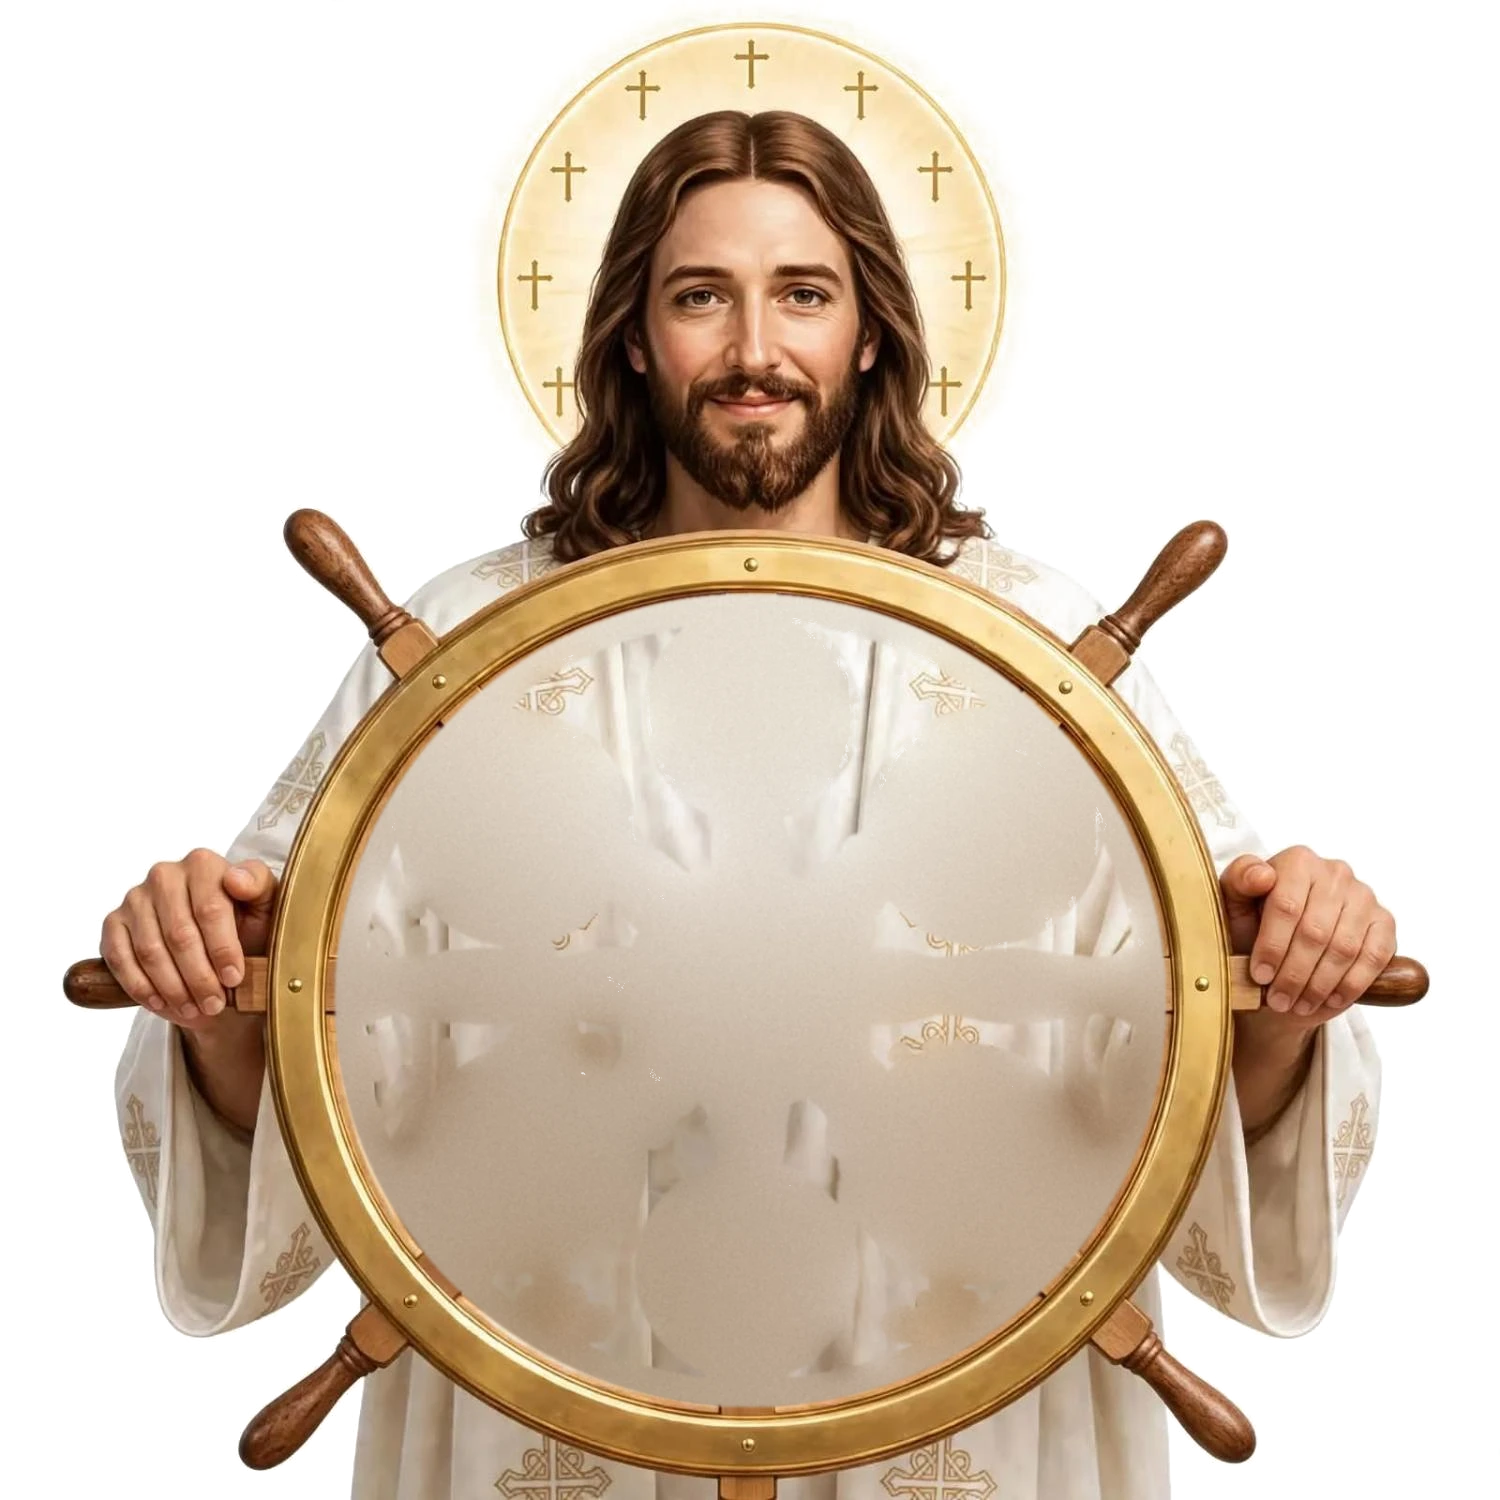
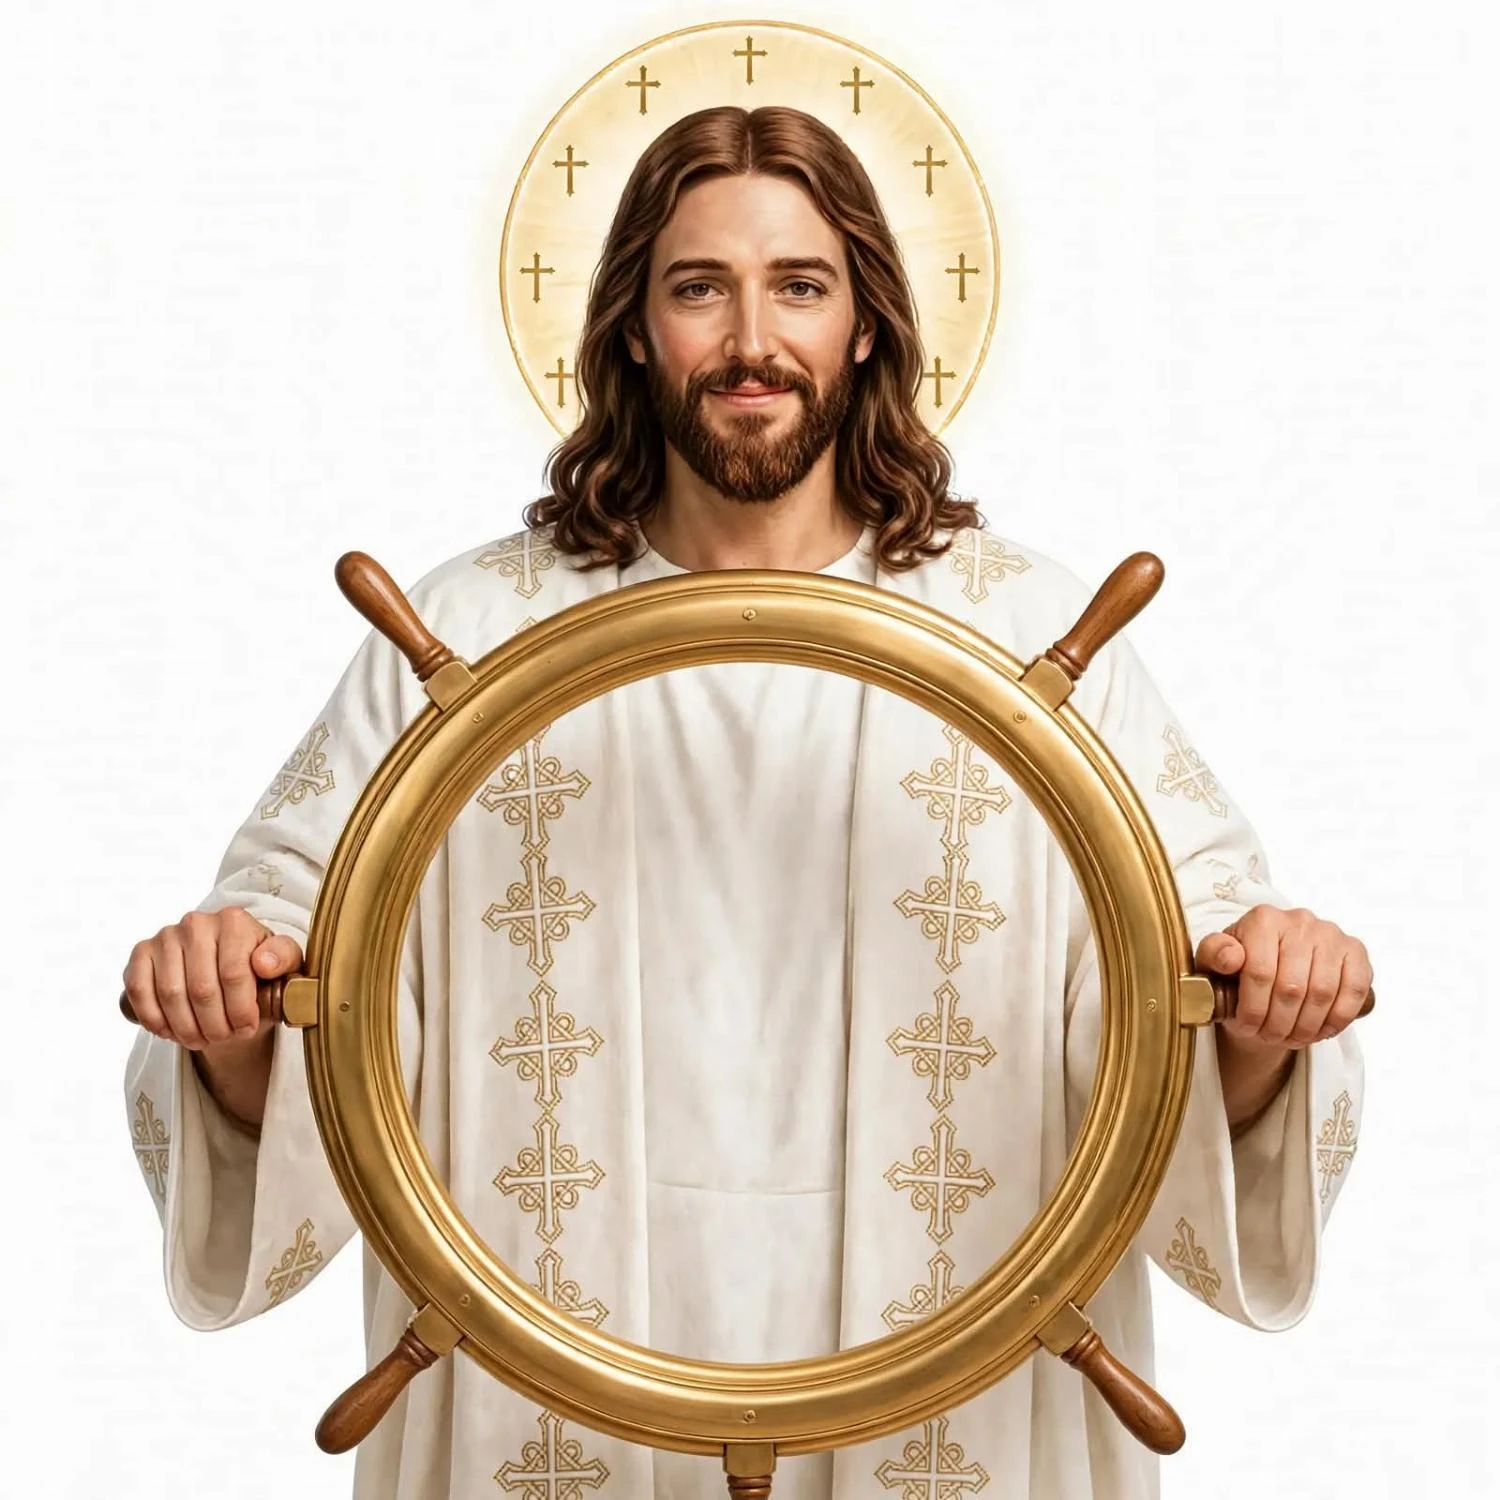
Add files via upload

diff --git a/index.html b/index.html
@@ -1,5 +1,5 @@
 <!DOCTYPE html>
-<html data-app-ver="263" lang="ar" dir="rtl">
+<html data-app-ver="265" lang="ar" dir="rtl">
 <head>
   <meta charset="UTF-8">
   <meta name="viewport" content="width=device-width, initial-scale=1.0, maximum-scale=5.0, user-scalable=yes, viewport-fit=cover">
@@ -1028,7 +1028,7 @@
       transform: scale(0.97);
     }
 
-    /* Ship Wheel Menu - Exact image design + rotatable */
+    /* Ship Wheel Menu — يسوع ماسك الطارة + الداخلية تدور جوّه الفتحة */
     .wheel-wrapper {
       display: flex;
       flex-direction: column;
@@ -1046,17 +1046,13 @@
       aspect-ratio: 1 / 1;
       background: transparent;
       touch-action: none;
-      cursor: grab;
+      cursor: default;
+      overflow: visible;
     }
-    .jesus-wheel:active {
+    .jesus-wheel.is-dragging {
       cursor: grabbing;
     }
-    .jesus-wheel-inner {
-      position: absolute;
-      inset: 0;
-      transform-origin: 49.9% 65.6%;
-      will-change: transform;
-    }
+    /* صورة يسوع ثابتة (الطارة الخارجية) */
     .wheel-layer {
       position: absolute;
       inset: 0;
@@ -1066,6 +1062,22 @@
       pointer-events: none;
       user-select: none;
       -webkit-user-drag: none;
+      object-fit: contain;
+    }
+    /* الطارة الداخلية — متوسطة على فتحة عجلة يسوع وتدور فقط */
+    .jesus-wheel-inner {
+      position: absolute;
+      /* مركز فتحة العجلة في صورة يسوع ≈ (49.73%, 65.47%) */
+      left: 49.73%;
+      top: 65.47%;
+      /* حجم يناسب الفتحة الداخلية للعجلة الذهبية */
+      width: 46%;
+      height: 46%;
+      transform: translate(-50%, -50%) rotate(0deg);
+      transform-origin: 50% 50%;
+      will-change: transform;
+      cursor: grab;
+      z-index: 5;
     }
     .jesus-wheel-inner img {
       width: 100%;
@@ -1073,25 +1085,24 @@
       display: block;
       pointer-events: none;
       background: transparent;
+      object-fit: contain;
     }
-    /* Clickable hotspots over the circular icons in the image */
+    /* مناطق الضغط — مركز كل زرار */
     .wheel-hotspot {
       position: absolute;
-      width: 14.5%;
-      height: 14.5%;
+      width: 28%;
+      height: 28%;
       border-radius: 50%;
       cursor: pointer;
       z-index: 10;
       transition: box-shadow 0.12s;
-      /* left/top = center of each circular icon; translate keeps hit-area centered */
       transform: translate(-50%, -50%);
       -webkit-tap-highlight-color: transparent;
       touch-action: manipulation;
     }
     .wheel-hotspot:active {
-      box-shadow: 0 0 0 6px rgba(201, 162, 39, 0.55);
+      box-shadow: 0 0 0 5px rgba(201, 162, 39, 0.55);
     }
-    /* Centers calibrated from wheel-inner.webp button disks */
 
     .wheel-hint {
       margin-top: 8px;
@@ -1722,19 +1733,18 @@
 
     <div class="wheel-wrapper">
       <div class="jesus-wheel" id="jesusWheel">
-        <img class="wheel-layer" src="wheel-bg.webp" alt="عجلة الخلوة" draggable="false">
+        <img class="wheel-layer" src="wheel-bg.webp" alt="يسوع ماسك عجلة الخلوة" draggable="false">
         <div class="jesus-wheel-inner" id="jesusWheelInner">
           <img src="wheel-inner.webp" alt="" draggable="false">
-          <div class="wheel-hotspot hotspot-altar" data-action="altar" title="على المذبح" style="left:48.70%;top:47.48%"></div>
-          <div class="wheel-hotspot hotspot-prayers" data-action="prayers" title="صلوات ومسموعة" style="left:63.30%;top:57.14%"></div>
-          <div class="wheel-hotspot hotspot-verses" data-action="verses" title="آياتي المحفوظة" style="left:63.32%;top:78.67%"></div>
-          <div class="wheel-hotspot hotspot-contact" data-action="contact" title="راسلنا" style="left:49.10%;top:85.08%"></div>
-          <div class="wheel-hotspot hotspot-readings" data-action="readings" title="قراءات لمستني" style="left:34.73%;top:77.69%"></div>
-          <div class="wheel-hotspot hotspot-pdf" data-action="pdf" title="تحميل PDF" style="left:33.28%;top:55.25%"></div>
+          <div class="wheel-hotspot hotspot-altar" data-action="altar" title="على المذبح" style="left:50.11%;top:16.58%"></div>
+          <div class="wheel-hotspot hotspot-prayers" data-action="prayers" title="صلوات ومسموعة" style="left:80.41%;top:32.97%"></div>
+          <div class="wheel-hotspot hotspot-verses" data-action="verses" title="آياتي المحفوظة" style="left:80.37%;top:67.92%"></div>
+          <div class="wheel-hotspot hotspot-contact" data-action="contact" title="راسلنا" style="left:49.98%;top:84.18%"></div>
+          <div class="wheel-hotspot hotspot-readings" data-action="readings" title="قراءات لمستني" style="left:19.38%;top:68.03%"></div>
+          <div class="wheel-hotspot hotspot-pdf" data-action="pdf" title="تحميل PDF" style="left:19.60%;top:32.96%"></div>
         </div>
-        <img class="wheel-layer wheel-rim" src="wheel-rim.webp" alt="" draggable="false">
       </div>
-      <div class="wheel-hint">لفّي العجلة • اضغطي على أي أيقونة</div>
+      <div class="wheel-hint">لفّي الطارة الداخلية • اضغطي على أي أيقونة</div>
     </div>
     <script>
     (function() {
@@ -1747,11 +1757,6 @@
       var isDragging = false;
       var moved = false;
       var startX = 0, startY = 0;
-      // Pivot matches CSS transform-origin (hub of the wheel)
-      var PIVOT_X = 0.499;
-      var PIVOT_Y = 0.656;
-      // Only the circular inner wheel disk is rotatable (not the outer image/rim area)
-      var WHEEL_RADIUS = 0.30;
 
       function getPoint(e) {
         if (e.changedTouches && e.changedTouches.length) return e.changedTouches[0];
@@ -1760,31 +1765,30 @@
       }
 
       function getAngle(e) {
-        var rect = outer.getBoundingClientRect();
-        var cx = rect.left + rect.width * PIVOT_X;
-        var cy = rect.top + rect.height * PIVOT_Y;
+        var rect = inner.getBoundingClientRect();
+        var cx = rect.left + rect.width * 0.5;
+        var cy = rect.top + rect.height * 0.5;
         var pt = getPoint(e);
         return Math.atan2(pt.clientY - cy, pt.clientX - cx) * 180 / Math.PI;
       }
 
-      /** True only when the touch/click is inside the inner wheel disk */
-      function isInsideInnerWheel(e) {
-        var rect = outer.getBoundingClientRect();
-        var cx = rect.left + rect.width * PIVOT_X;
-        var cy = rect.top + rect.height * PIVOT_Y;
+      /** اللمس داخل قرص الطارة الداخلية فقط */
+      function isInsideInner(e) {
+        var rect = inner.getBoundingClientRect();
+        var cx = rect.left + rect.width * 0.5;
+        var cy = rect.top + rect.height * 0.5;
         var pt = getPoint(e);
-        var dx = (pt.clientX - cx) / rect.width;
-        var dy = (pt.clientY - cy) / rect.height;
-        return Math.sqrt(dx * dx + dy * dy) <= WHEEL_RADIUS;
+        var dx = (pt.clientX - cx) / (rect.width * 0.5);
+        var dy = (pt.clientY - cy) / (rect.height * 0.5);
+        return (dx * dx + dy * dy) <= 1.05;
       }
 
       function applyRotation() {
-        inner.style.transform = 'rotate(' + rotation + 'deg)';
+        inner.style.transform = 'translate(-50%, -50%) rotate(' + rotation + 'deg)';
       }
 
       function onStart(e) {
-        // Do not start rotation when touching outside the inner wheel area
-        if (!isInsideInnerWheel(e)) {
+        if (!isInsideInner(e)) {
           isDragging = false;
           return;
         }
@@ -1794,6 +1798,7 @@
         var pt = getPoint(e);
         startX = pt.clientX;
         startY = pt.clientY;
+        outer.classList.add('is-dragging');
       }
 
       function onMove(e) {
@@ -1801,7 +1806,7 @@
         var pt = getPoint(e);
         var dx = pt.clientX - startX;
         var dy = pt.clientY - startY;
-        if (Math.abs(dx) > 6 || Math.abs(dy) > 6) moved = true;
+        if (Math.abs(dx) > 5 || Math.abs(dy) > 5) moved = true;
         rotation = getAngle(e) - startAngle;
         applyRotation();
         if (e.cancelable) e.preventDefault();
@@ -1810,7 +1815,7 @@
       function onEnd(e) {
         if (!isDragging) return;
         isDragging = false;
-        // Tap (not drag) on a hotspot → open that action
+        outer.classList.remove('is-dragging');
         if (!moved) {
           var pt = getPoint(e);
           var target = document.elementFromPoint(pt.clientX, pt.clientY);
@@ -1832,7 +1837,6 @@
         } catch (err) { console.error(err); }
       }
 
-      // Direct click on hotspots (desktop / accessibility)
       inner.querySelectorAll('.wheel-hotspot').forEach(function(hs) {
         hs.addEventListener('click', function(ev) {
           if (moved) { ev.preventDefault(); return; }
@@ -1840,13 +1844,13 @@
         });
       });
 
-      // Listen on outer for hit-testing, but rotation only starts inside the disk
-      outer.addEventListener('mousedown', onStart);
+      // اللف فقط عند اللمس على الطارة الداخلية
+      inner.addEventListener('mousedown', onStart);
       window.addEventListener('mousemove', onMove);
       window.addEventListener('mouseup', onEnd);
-      outer.addEventListener('touchstart', onStart, {passive: true});
-      outer.addEventListener('touchmove', onMove, {passive: false});
-      outer.addEventListener('touchend', onEnd);
+      inner.addEventListener('touchstart', onStart, {passive: true});
+      inner.addEventListener('touchmove', onMove, {passive: false});
+      inner.addEventListener('touchend', onEnd);
 
       // راسلنا
       window.openContactUs = function() {
@@ -15381,7 +15385,7 @@ function dayScore(d) {
     
     // ترقية هادئة للكاش دون ريستارت متكرر
     (function forceUpgradeCache() {
-      var APP_VER = '263';
+      var APP_VER = '265';
       var KEY = 'khalwati_force_v' + APP_VER;
       var htmlVer = (document.documentElement.getAttribute('data-app-ver') || '').trim();
 

diff --git a/sw.js b/sw.js
@@ -1,4 +1,4 @@
-const CACHE = 'khalwati-v263';
+const CACHE = 'khalwati-v265';
 
 // أساسيات صغيرة تُحفظ فور التثبيت
 const CORE = [
@@ -11,7 +11,7 @@ const CORE = [
   './khalwaty-poster.js', './agpeya-texts.js', './psalms.js',
   './logo.png', './parchment-bg.jpg',
   './icon-192.png', './icon-v76-192.png', './icon-v76-512.png', './apple-touch-icon-v76.png',
-  './wheel-bg.webp', './wheel-inner.webp', './wheel-rim.webp', './prayer-alarm.mp3', './sawt-rabina.mp3', './bible-music-4.mp3'
+  './wheel-bg.webp', './wheel-inner.webp', './prayer-alarm.mp3', './sawt-rabina.mp3', './bible-music-4.mp3'
 ];
 
 // ملفات أكبر تُحفظ في الخلفية بعد فتح التطبيق (بترتيب الأهمية) ليعمل التطبيق بدون إنترنت
